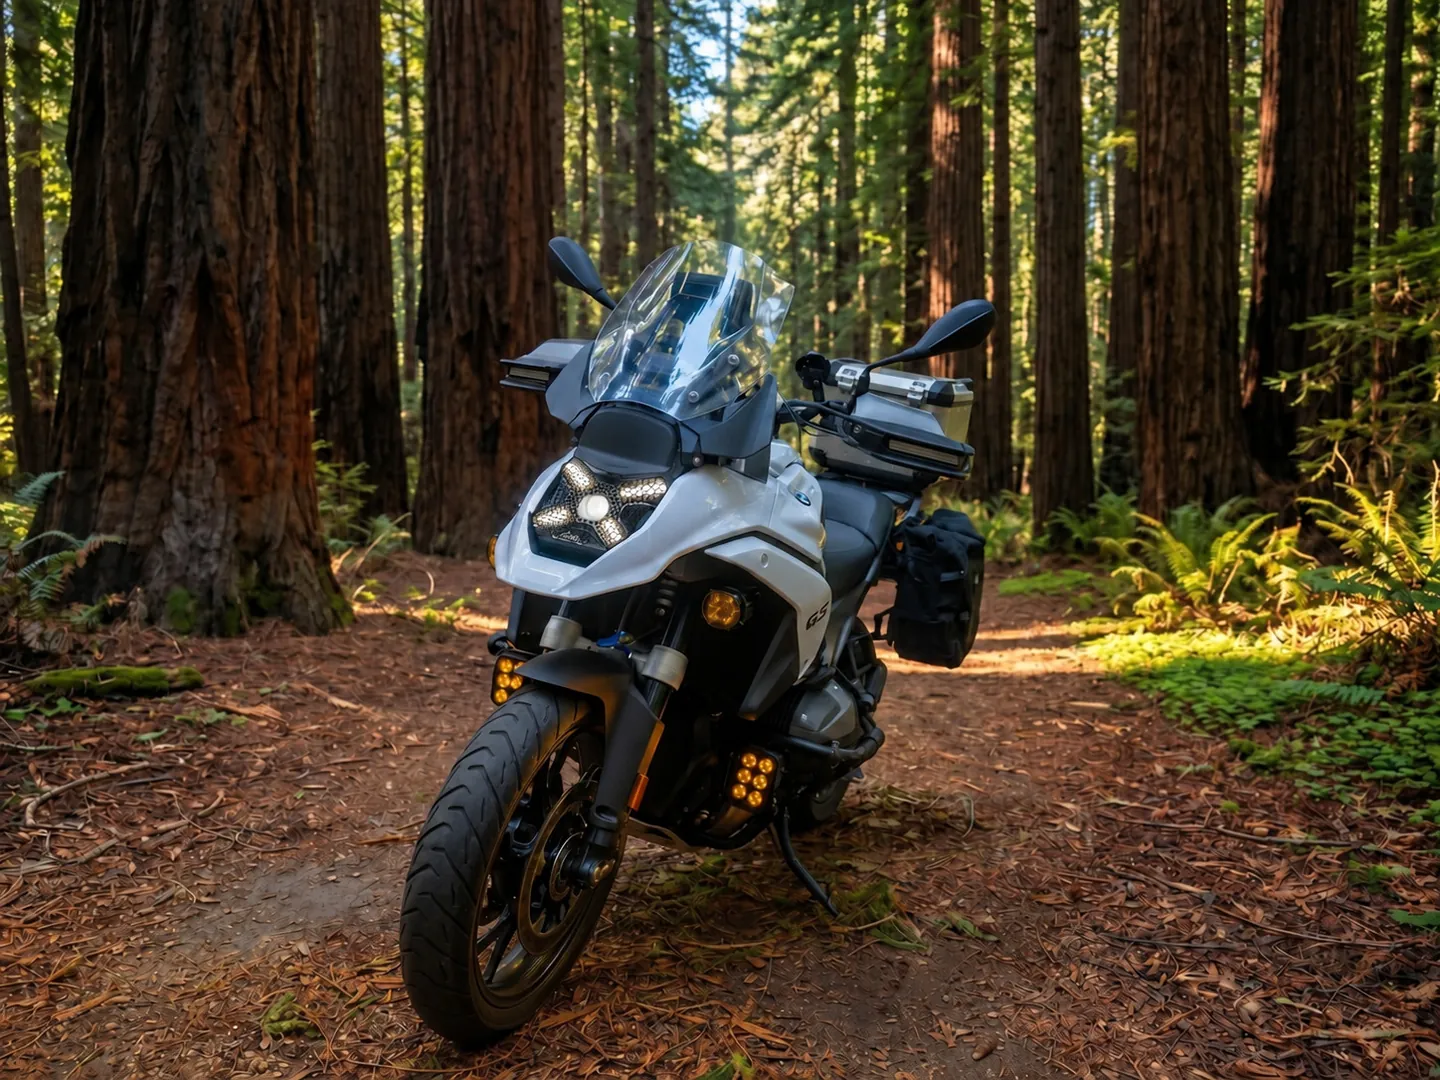
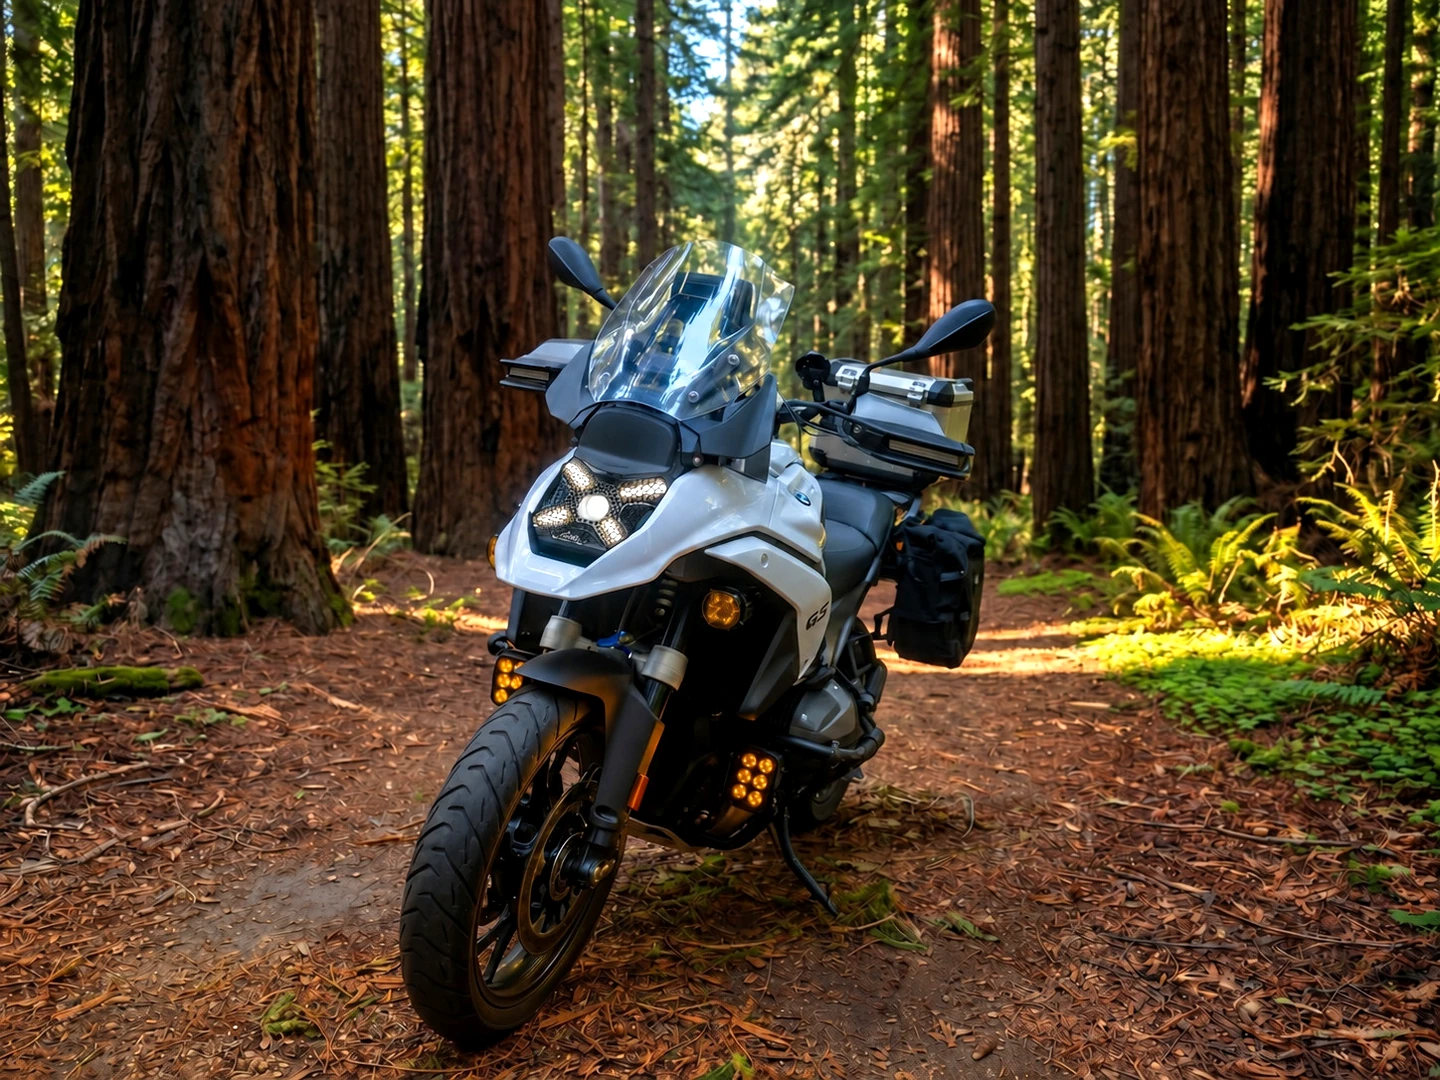
Make the rental bike photos brighter and truer to color
The GSX-8R and YZF-R9 photos are iPhone shots in Display P3, but the
WebP versions were saved without their color profile, so browsers read
them as sRGB and they looked washed out. They now keep the profile.
All four photos (and the link preview) get a light levels and contrast
lift and are saved at higher quality, and the under-repair tiles no
longer desaturate their photos. Image URLs carry ?v=2 so caches refresh.

diff --git a/motorcycle-rentals/index.html b/motorcycle-rentals/index.html
@@ -20,7 +20,7 @@
   <link rel="canonical" href="https://danielyakobian.com/motorcycle-rentals/">
   <link rel="icon" type="image/png" sizes="128x128" href="../assets/favicon.png">
   <link rel="stylesheet" href="../styles.css?v=rentals-1">
-  <link rel="stylesheet" href="rentals.css?v=2">
+  <link rel="stylesheet" href="rentals.css?v=3">
   <script src="/analytics.js?v=4" defer></script>
   <script type="application/ld+json">
   {
@@ -71,7 +71,7 @@
         <h2 class="section-title" id="bikes-title">My bikes</h2>
         <div class="bike-grid">
           <article class="bike">
-            <div class="bike-photo"><img src="../assets/motorcycles/bmw-r-1300-gs.webp" width="1440" height="1080" alt="White 2025 BMW R 1300 GS with side cases and auxiliary lights, parked on a dirt trail among redwood trees"></div>
+            <div class="bike-photo"><img src="../assets/motorcycles/bmw-r-1300-gs.webp?v=2" width="1440" height="1080" alt="White 2025 BMW R 1300 GS with side cases and auxiliary lights, parked on a dirt trail among redwood trees"></div>
             <div class="bike-copy">
               <h3>2025 BMW R 1300 GS</h3>
               <p>A fully loaded adventure bike with automatic shifting, made for exploring California. Airport delivery is available.</p>
@@ -83,7 +83,7 @@
             </div>
           </article>
           <article class="bike">
-            <div class="bike-photo"><img src="../assets/motorcycles/suzuki-gsx-8r.webp" width="1159" height="869" alt="Black 2025 Suzuki GSX-8R with a tank bag, parked by the road in front of yellow wildflowers"></div>
+            <div class="bike-photo"><img src="../assets/motorcycles/suzuki-gsx-8r.webp?v=2" width="1159" height="869" alt="Black 2025 Suzuki GSX-8R with a tank bag, parked by the road in front of yellow wildflowers"></div>
             <div class="bike-copy">
               <h3>2025 Suzuki GSX-8R</h3>
               <p>A sport-touring package ready for long rides, about 30 minutes by Uber from LAX.</p>
@@ -95,7 +95,7 @@
             </div>
           </article>
           <article class="bike is-repair">
-            <div class="bike-photo"><img src="../assets/motorcycles/ducati-panigale-v2-s.webp" width="1440" height="1080" alt="Red 2025 Ducati Panigale V2 S on its side stand in front of a grey concrete wall" loading="lazy"><span class="bike-status">Under repair</span></div>
+            <div class="bike-photo"><img src="../assets/motorcycles/ducati-panigale-v2-s.webp?v=2" width="1440" height="1080" alt="Red 2025 Ducati Panigale V2 S on its side stand in front of a grey concrete wall" loading="lazy"><span class="bike-status">Under repair</span></div>
             <div class="bike-copy">
               <h3>2025 Ducati Panigale V2 S</h3>
               <p>The lightweight 890 cc Panigale V2 S, with 120 hp, Öhlins suspension, Brembo brakes and Ducati’s latest rider aids.</p>
@@ -104,7 +104,7 @@
             </div>
           </article>
           <article class="bike is-repair">
-            <div class="bike-photo"><img src="../assets/motorcycles/yamaha-yzf-r9.webp" width="1440" height="1080" alt="Matte black 2025 Yamaha YZF-R9 with a helmet on the seat, parked at a hilltop overlook" loading="lazy"><span class="bike-status">Under repair</span></div>
+            <div class="bike-photo"><img src="../assets/motorcycles/yamaha-yzf-r9.webp?v=2" width="1440" height="1080" alt="Matte black 2025 Yamaha YZF-R9 with a helmet on the seat, parked at a hilltop overlook" loading="lazy"><span class="bike-status">Under repair</span></div>
             <div class="bike-copy">
               <h3>2025 Yamaha YZF-R9</h3>
               <p>An R9 with the 890 cc CP3 triple, a Toce full exhaust and an ECU flash.</p>

diff --git a/motorcycle-rentals/rentals.css b/motorcycle-rentals/rentals.css
@@ -13,7 +13,6 @@
 .bike-photo { position: relative; }
 .bike-photo img { display: block; width: 100%; height: 100%; object-fit: cover; }
 .bike-status { position: absolute; left: 12px; top: 12px; padding: 5px 11px; border-radius: 999px; background: rgba(253, 250, 243, .95); color: var(--green); font-size: 13px; font-weight: 700; box-shadow: 0 2px 8px -2px rgba(17, 24, 16, .35); }
-.is-repair .bike-photo img { filter: saturate(.55); }
 .bike .bike-note { margin: auto 0 0; padding: 12px 14px; border: 1px dashed #a7b2a5; border-radius: 4px; font-size: 14px; line-height: 1.45; color: var(--muted); }
 .bike-copy { flex: 1; display: flex; flex-direction: column; padding: 20px 22px 22px; }
 .bike h3 { margin: 0 0 8px; font-size: 22px; line-height: 1.2; letter-spacing: -.3px; }
